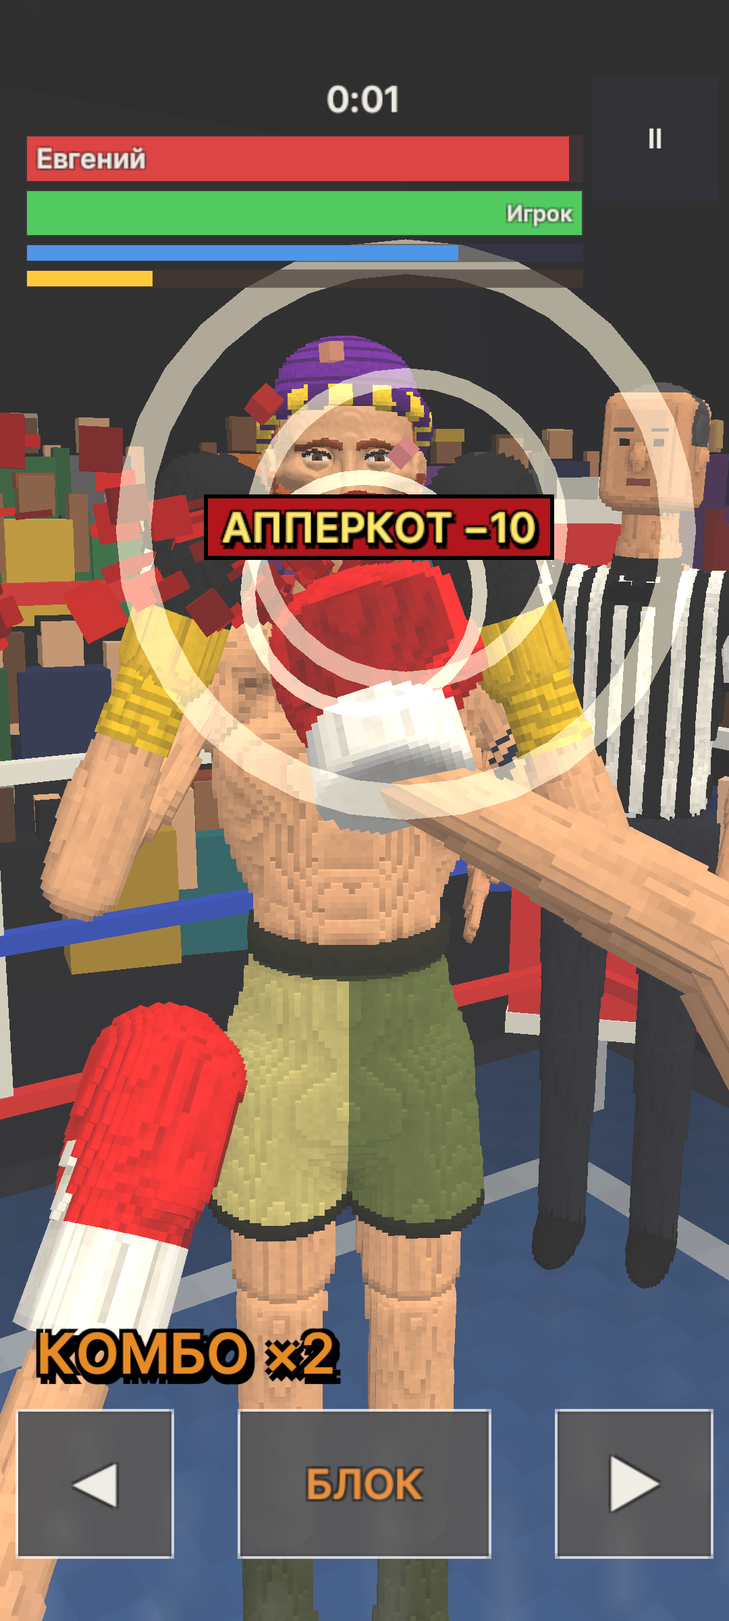
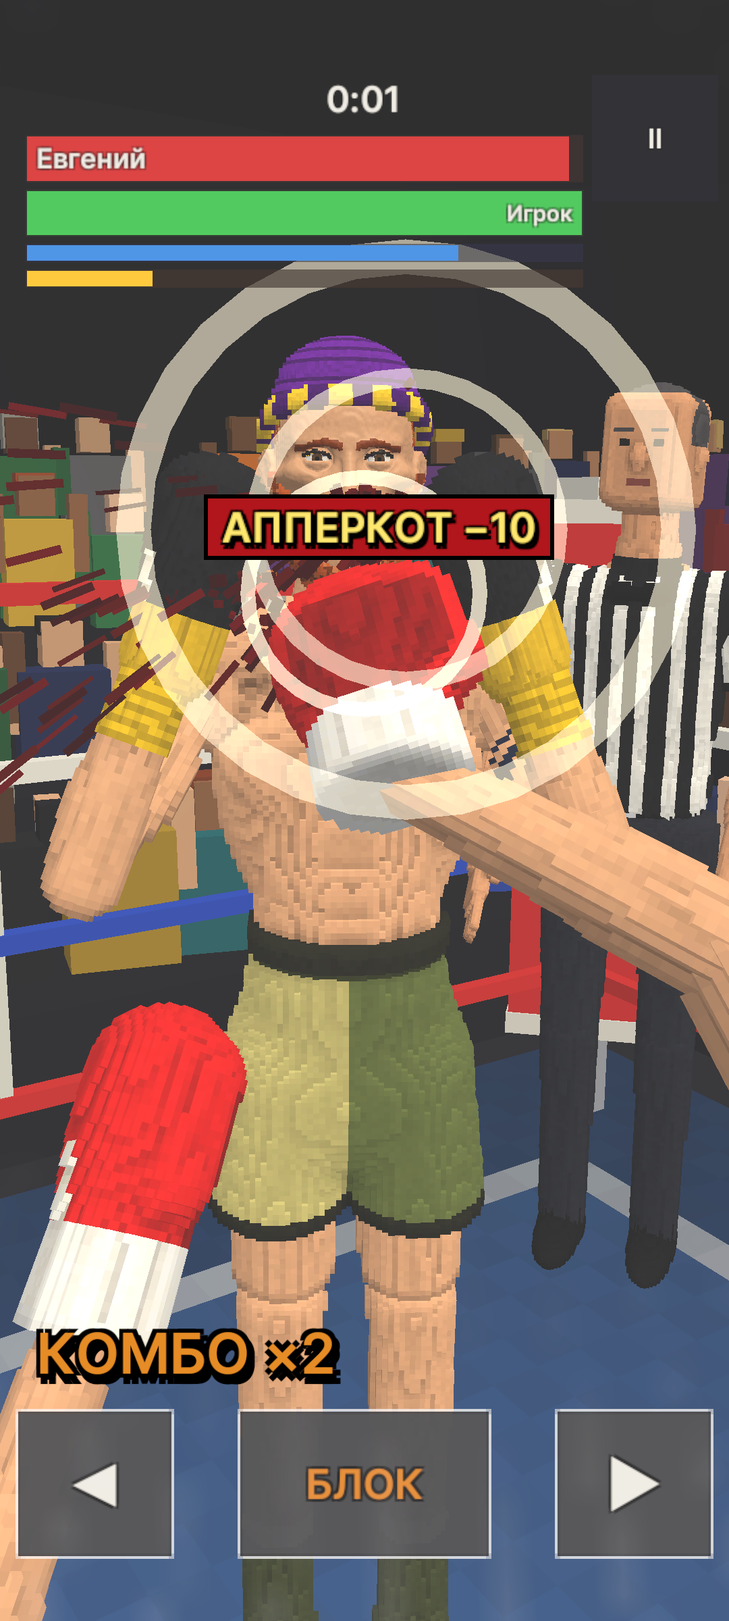
HIT-FX-2, доработка 3: кровь мелкими тёмно-бордовыми каплями и полосами; замер размера и цвета; снимки
Капли ×2,0 с ограничением экранной толщины (капля 1,25 %, штрих 0,6 % расстояния до камеры), штрихи длиннее,
кубики мяса мелкие и тёмные; джеб 56, силовой 130, мега 280 капель (пул 640 прежний); веер хука шире по
вертикали. WriteCube: ориентация и нормали раз на куб. Тест HitFx2_Criteria: размер, число, площадь, цвет.

diff --git a/Unity/Assets/Game/Runtime/Effects/FxParticles.cs b/Unity/Assets/Game/Runtime/Effects/FxParticles.cs
@@ -25,8 +25,9 @@ namespace VoxGame
         public const float SparkSize    = 0.011f;  // м, средний размер искры
         public const float SpawnLead    = 0.03f;   // м: рождение перед поверхностью, со стороны удара
         // Кровь (веб: капля 2,2–5,5 мм, морось 1,2–2,2 мм, штрих до ×5,5 длины и не длиннее 2,6 % расстояния до камеры)
-        public const float DropMin = 0.0022f, DropMax = 0.0055f, MistMin = 0.0012f, MistMax = 0.0022f;
-        public const float StreakMax = 4.5f, StreakScreen = 0.026f, StreakK = 0.011f;
+        public const float DropMin = 0.0022f, DropMax = 0.0055f, MistMin = 0.0015f, MistMax = 0.0035f;
+        public const float StreakMax = 6f, StreakScreen = 0.04f, StreakK = 0.016f;
+        public const float StreakThick = 0.006f;   // толщина штриха ≤ доли расстояния до камеры (≈1,15 % ширины кадра в портрете)
         public const float DropLifeMin = 1.6f, DropLifeMax = 2.4f, StainLife = 2.0f;
         public const float Near0 = 0.2f, Near1 = 0.6f;   // у объектива капля сжимается до нуля: не закрывает бой
 
@@ -44,7 +45,8 @@ namespace VoxGame
 
         static readonly Color32[] BloodCol =
         {
-            new Color32(178, 12, 12, 255), new Color32(150, 10, 10, 255), new Color32(205, 26, 20, 255), new Color32(120, 8, 9, 255),
+            // тёмно-бордовая (доработка 3): на красной перчатке и полосе здоровья кровь читается отдельно
+            new Color32(92, 6, 10, 255), new Color32(74, 4, 8, 255), new Color32(110, 10, 14, 255), new Color32(60, 3, 7, 255),
         };
 
         // Частицы
@@ -58,6 +60,8 @@ namespace VoxGame
         readonly float[]   _spinV = new float[MaxParticles];
         readonly FxKind[]  _kind = new FxKind[MaxParticles];
         readonly Color32[] _col = new Color32[MaxParticles];
+        readonly float[]   _dThick = new float[MaxParticles];     // замер: толщина нарисованного куба (м; 0 — не нарисован)
+        readonly bool[]    _dStreak = new bool[MaxParticles];     // замер: нарисован штрихом
         readonly uint[]    _seq = new uint[MaxParticles];         // порядковый номер рождения
         int  _next;
         uint _born;
@@ -146,7 +150,9 @@ namespace VoxGame
         public const float BloodSpeed = 1.25f;   // м/с: основная скорость при spd = 1, k = 1
         public const float ToCamMax = 0.9f;      // м/с: предел скорости к камере
         public const float UpMax = 2.2f;         // м/с: предел подъёма (апперкот)
-        public const float DropK = 2.4f, BigDrop = 1.8f;   // размер капли ×масштаб вида ×DropK; каждая шестая ×BigDrop
+        // размер капли ×масштаб вида: мелкие чаще (квадрат случайного), каждая восьмая ×BigDrop — разброс без крупных кубов
+        public const float DropK = 2.0f, BigDrop = 1.5f;
+        public const float ThickScreen = 0.0125f;   // толщина капли, мороси и кубика мяса ≤ доли расстояния до камеры (≈2,4 % ширины кадра в портрете)
 
         public void BloodBurst(Vector3 at, Vector3 dir, Vector3 toCam, int n, int kind, float spd, float k)
         {
@@ -169,7 +175,7 @@ namespace VoxGame
                 switch (kind)
                 {
                     case BurstHook:
-                        v = side * m + rx * R(-0.15f, 0.15f) + Vector3.up * R(-0.1f, 0.45f) * m + cf * R(-0.1f, 0.35f) * m;
+                        v = side * m + rx * R(-0.15f, 0.15f) + Vector3.up * R(-0.55f, 0.6f) * m + cf * R(-0.1f, 0.35f) * m;   // веер шире перчатки по вертикали
                         break;
                     case BurstUpper:
                         v = Vector3.up * (0.15f + m) + rx * R(-0.3f, 0.3f) * m + cf * R(-0.1f, 0.3f) * m;
@@ -189,9 +195,9 @@ namespace VoxGame
                 if (vc > ToCamMax) v -= c * (vc - ToCamMax);
                 if (v.y > UpMax) v.y = UpMax;
                 // размеры вразброс (доработка 2): каждая шестая капля крупная, морось тоже крупнее — всплеск читается на телефоне
-                float big = i % 6 == 0 ? BigDrop : 1f;
+                float big = i % 8 == 0 ? BigDrop : 1f, q = Rand01();
                 if (mist) Spawn(FxKind.Mist, from, v, R(MistMin, MistMax) * k * DropK, R(0.25f, 0.6f), col);
-                else Spawn(FxKind.Blood, from + RandSphere() * 0.01f, v, R(DropMin, DropMax) * k * DropK * big, R(DropLifeMin, DropLifeMax), col);
+                else Spawn(FxKind.Blood, from + RandSphere() * 0.01f, v, Mathf.Lerp(DropMin, DropMax, q * q) * k * DropK * big, R(DropLifeMin, DropLifeMax), col);
             }
         }
 
@@ -209,9 +215,9 @@ namespace VoxGame
             {
                 // подъём и полёт к камере ограничены, как у крови (HIT-FX-2): кубики не улетают за верхний край
                 Vector3 v = side * R(0.6f, 2f) + RandSphere() * 0.8f + Vector3.up * R(0.2f, 1f) + c * R(0f, 0.6f);
-                Color32 col = Rand01() < 0.6f ? new Color32((byte)R(140, 190), (byte)R(18, 40), (byte)R(20, 36), 255)
-                                              : new Color32((byte)R(200, 230), (byte)R(120, 150), (byte)R(110, 130), 255);
-                Spawn(FxKind.Chunk, at + c * SpawnLead + RandSphere() * 0.015f, v * spd * Mathf.Sqrt(k), R(0.006f, 0.011f) * k,
+                // мелкие и тёмные (доработка 3): крупные красные кубики читались как кровь-кубы
+                Color32 col = new Color32((byte)R(70, 115), (byte)R(6, 18), (byte)R(9, 20), 255);
+                Spawn(FxKind.Chunk, at + c * SpawnLead + RandSphere() * 0.015f, v * spd * Mathf.Sqrt(k), R(0.003f, 0.005f) * k,
                       R(1.4f, 2.2f), col);
             }
         }
@@ -375,6 +381,17 @@ namespace VoxGame
         // Показать или спрятать меш частиц (замер: площадь крови на снимке).
         public void SetDrawn(bool on) { if (_go != null) _go.SetActive(on); }
 
+        // Замер: нарисованные капли, морось и кубики мяса этого удара — положение, толщина (м), штрих ли.
+        public int CopyBloodDims(uint fromSeq, Vector3[] pos, float[] thick, bool[] streak)
+        {
+            int n = 0;
+            for (int i = 0; i < MaxParticles && n < pos.Length; i++)
+                if (_life[i] > 0f && _seq[i] >= fromSeq && _dThick[i] > 0f
+                    && (_kind[i] == FxKind.Blood || _kind[i] == FxKind.Mist || _kind[i] == FxKind.Chunk))
+                { pos[n] = _pos[i]; thick[n] = _dThick[i]; streak[n] = _dStreak[i]; n++; }
+            return n;
+        }
+
         public int CopyBlood(uint fromSeq, Vector3[] dst)
         {
             int n = 0;
@@ -424,9 +441,10 @@ namespace VoxGame
                 if (_hasCam)
                 {
                     cd = Vector3.Distance(_pos[i], _camPos);
-                    if (cd < Near1) { if (cd <= Near0) continue; s *= (cd - Near0) / (Near1 - Near0); }
+                    if (cd < Near1) { if (cd <= Near0) { _dThick[i] = 0f; continue; } s *= (cd - Near0) / (Near1 - Near0); }
                 }
-                if (s <= 1e-5f) continue;
+                if (s <= 1e-5f) { _dThick[i] = 0f; continue; }
+                if (kind == FxKind.Blood || kind == FxKind.Mist || kind == FxKind.Chunk) s = Mathf.Min(s, cd * ThickScreen);
 
                 Vector3 u, v, w;
                 float su = s, sv = s, sw = s;
@@ -441,7 +459,7 @@ namespace VoxGame
                     if (kind == FxKind.Blood)
                     {
                         float l = Mathf.Max(s, Mathf.Min(s * (1f + Mathf.Min(StreakMax, sp * StreakK / s)), cd * StreakScreen));
-                        sw = l; su = sv = s * Mathf.Sqrt(s / l);
+                        sw = l; su = sv = Mathf.Min(s * Mathf.Sqrt(s / l), cd * StreakThick);
                     }
                     else sw = s * (1f + Mathf.Min(sp * 1.6f, 2.2f));
                 }
@@ -456,6 +474,8 @@ namespace VoxGame
                     u = new Vector3(ca, sa, 0f); v = new Vector3(-sa * 0.8f, ca * 0.8f, 0.6f).normalized;
                     w = Vector3.Cross(u, v);
                 }
+                _dThick[i] = Mathf.Max(su, sv); _dStreak[i] = sw > Mathf.Max(su, sv) * 1.5f;
+                if (!_dStreak[i]) _dThick[i] = Mathf.Max(_dThick[i], sw);
                 WriteCube(j * VertsPer, w2l.MultiplyPoint3x4(_pos[i]), w2l.MultiplyVector(u * (su * 0.5f)),
                           w2l.MultiplyVector(v * (sv * 0.5f)), w2l.MultiplyVector(w * (sw * 0.5f)), _col[i]);
                 j++;
@@ -469,25 +489,27 @@ namespace VoxGame
         // Шесть граней по полуосям hu, hv, hw; обход по часовой снаружи (как у VoxModel).
         void WriteCube(int b, Vector3 c, Vector3 hu, Vector3 hv, Vector3 hw, Color32 col)
         {
-            Face(b,      c, hu,  hv,  hw, col);   // +u
-            Face(b + 4,  c, -hu, hw,  hv, col);   // -u
-            Face(b + 8,  c, hv,  hw,  hu, col);   // +v
-            Face(b + 12, c, -hv, hu,  hw, col);   // -v
-            Face(b + 16, c, hw,  hu,  hv, col);   // +w
-            Face(b + 20, c, -hw, hv,  hu, col);   // -w
+            // у всех шести граней ориентация обхода одна (смешанное произведение hu, hv, hw): проверка и нормали — раз на куб
+            bool sw = Vector3.Dot(Vector3.Cross(hv, hw), hu) > 0f;
+            Vector3 nu = hu.normalized, nv = hv.normalized, nw = hw.normalized;
+            Face(b,      c + hu, nu,  hv, hw, sw, col);   // +u
+            Face(b + 4,  c - hu, -nu, hw, hv, sw, col);   // -u
+            Face(b + 8,  c + hv, nv,  hw, hu, sw, col);   // +v
+            Face(b + 12, c - hv, -nv, hu, hw, sw, col);   // -v
+            Face(b + 16, c + hw, nw,  hu, hv, sw, col);   // +w
+            Face(b + 20, c - hw, -nw, hv, hu, sw, col);   // -w
         }
 
-        // Грань с нормалью вдоль n (полуось), стороны a, b.
-        void Face(int i, Vector3 c, Vector3 n, Vector3 a, Vector3 b, Color32 col)
+        // Грань с центром o, нормалью nn и сторонами a, b; лицевая сторона Unity: cross(v1−v0, v2−v0) = −4·cross(a, b)
+        // должен смотреть по нормали, иначе стороны меняются местами (sw).
+        void Face(int i, Vector3 o, Vector3 nn, Vector3 a, Vector3 b, bool sw, Color32 col)
         {
-            Vector3 o = c + n;
-            Vector3 nn = n.normalized;
-            // лицевая сторона Unity: cross(v1−v0, v2−v0) = −4·cross(a, b) должен смотреть по n
-            if (Vector3.Dot(Vector3.Cross(a, b), n) > 0f) { Vector3 t = a; a = b; b = t; }
-            _vb[i]     = new Vtx { p = o - a - b, n = nn, c = col };
-            _vb[i + 1] = new Vtx { p = o - a + b, n = nn, c = col };
-            _vb[i + 2] = new Vtx { p = o + a + b, n = nn, c = col };
-            _vb[i + 3] = new Vtx { p = o + a - b, n = nn, c = col };
+            if (sw) { Vector3 t = a; a = b; b = t; }
+            Vector3 p = a + b, m = a - b;
+            _vb[i]     = new Vtx { p = o - p, n = nn, c = col };
+            _vb[i + 1] = new Vtx { p = o - m, n = nn, c = col };
+            _vb[i + 2] = new Vtx { p = o + p, n = nn, c = col };
+            _vb[i + 3] = new Vtx { p = o + m, n = nn, c = col };
         }
 
         // ---- Случайные числа (свой генератор: порядок случайных чисел боя не трогается) ---------------

diff --git a/Unity/Assets/Game/Editor/HitFx2Shots.cs b/Unity/Assets/Game/Editor/HitFx2Shots.cs
@@ -25,6 +25,8 @@ namespace VoxGame.Editor
             public float in15Frac, in33Frac;                // то же через 0,15 и 0,33 с
             public int after05Alive; public float after05HighFrac, after05BehindFrac;   // через 0,5 с: выше точки на 0,25·H
             public bool plateSeen; public float hudBottom, plateGloveFrac, plateContrastMin, plateHudFrac, plateComboFrac;
+            public float sizeMax, sizeMed, streakMax; public int sizeN;   // доработка 3: толщина частиц на 0,15 с, доли ширины
+            public Color bloodCol, gloveCol; public float bloodLum, bloodGloveContrast;   // средние цвета пикселей (sRGB) и яркость, контраст
             public Vector2 hitN; public float bloodPx15, plateDist, ringOverText, plateGlovePx; public Rect glovePxN; public bool plateInSafe; public Rect plateN, safeN, gloveN0, gloveN1;
         }
 
@@ -98,7 +100,8 @@ namespace VoxGame.Editor
                     if (f == PeakAt)
                     {
                         res.peakVis = vis; res.peakIn = inside; res.in15Frac = vis > 0 ? (float)inside / vis : 0f;
-                        res.bloodPx15 = ParticlePx(cam, ui, w, h, fx);
+                        res.bloodPx15 = ParticlePx(cam, ui, w, h, fx, ref res);
+                        SizeStats(cam, fx, born, w, ref res);
                         if (dir != null) HF2Shot(cam, ui, w, h, tmpPeak);
                     }
                     // 0,27 с: перчатка ушла с лица, облако крови открыто (дополнительный снимок, портрет)
@@ -294,15 +297,56 @@ namespace VoxGame.Editor
         }
 
         // Пиксели кадра, которые закрывают частицы: снимок с частицами и без них, разница больше 0,06 по любому каналу.
-        static float ParticlePx(Camera cam, UIRoot ui, int w, int h, FxDirector fx)
+        // Заодно средний цвет пикселей частиц и пикселей перчаток игрока на том же кадре (перчатки — разница с кадром без них).
+        static float ParticlePx(Camera cam, UIRoot ui, int w, int h, FxDirector fx, ref HitFx2Res res)
         {
             HF2Begin(cam, ui, w, h);
             var on = HF2Render(cam, w, h);
             fx.Particles.SetDrawn(false);
             var off = HF2Render(cam, w, h);
             fx.Particles.SetDrawn(true);
+            var gs = new[] { cam.transform.Find("playerArms/playerGlove0"), cam.transform.Find("playerArms/playerGlove1") };
+            foreach (var gt in gs) if (gt != null) gt.gameObject.SetActive(false);
+            var ng = HF2Render(cam, w, h);
+            foreach (var gt in gs) if (gt != null) gt.gameObject.SetActive(true);
             ui.RestoreAfterShot();
+            Color sb = Color.clear, sg = Color.clear; int nb = 0, ngl = 0;
+            for (int i = 0; i < on.Length; i++)
+            {
+                bool part = Differs(on[i], off[i]);
+                if (part) { sb += on[i]; nb++; }
+                else if (Differs(on[i], ng[i])) { sg += on[i]; ngl++; }
+            }
+            res.bloodCol = nb > 0 ? sb / nb : Color.black; res.gloveCol = ngl > 0 ? sg / ngl : Color.black;
+            float lb = Lum(res.bloodCol.linear), lg = Lum(res.gloveCol.linear);
+            res.bloodLum = lb;
+            res.bloodGloveContrast = (Mathf.Max(lb, lg) + 0.05f) / (Mathf.Min(lb, lg) + 0.05f);
             return DiffFrac(on, off, w, h, new Rect(0f, 0f, 1f, 1f)) * w * h;
+        }
+
+        static bool Differs(Color p, Color q) => Mathf.Abs(p.r - q.r) > 0.06f || Mathf.Abs(p.g - q.g) > 0.06f || Mathf.Abs(p.b - q.b) > 0.06f;
+
+        // Экранная толщина частиц крови этого удара (наибольшая сторона куба, у штриха — поперёк движения), доли ширины кадра.
+        static void SizeStats(Camera cam, FxDirector fx, uint born, int w, ref HitFx2Res res)
+        {
+            int m = FxParticles.MaxParticles;
+            var pos = new Vector3[m]; var th = new float[m]; var st = new bool[m];
+            int n = fx.Particles.CopyBloodDims(born, pos, th, st);
+            var l = new List<float>(n);
+            float tv = 2f * Mathf.Tan(cam.fieldOfView * 0.5f * Mathf.Deg2Rad), asp = cam.aspect;
+            res.streakMax = 0f;
+            for (int i = 0; i < n; i++)
+            {
+                Vector3 v = cam.WorldToViewportPoint(pos[i]);
+                if (v.z <= 0.01f || v.x < 0f || v.x > 1f || v.y < 0f || v.y > 1f) continue;
+                float f = th[i] / (v.z * tv * asp);   // доля ширины
+                l.Add(f);
+                if (st[i]) res.streakMax = Mathf.Max(res.streakMax, f);
+            }
+            l.Sort();
+            res.sizeN = l.Count;
+            res.sizeMax = l.Count > 0 ? l[l.Count - 1] : 0f;
+            res.sizeMed = l.Count > 0 ? l[l.Count / 2] : 0f;
         }
 
         static Rect DiffBox(Color[] a, Color[] b, int w, int h)

diff --git a/Unity/Assets/Game/Tests/FxDirectorTests.cs b/Unity/Assets/Game/Tests/FxDirectorTests.cs
@@ -530,10 +530,21 @@ namespace VoxGame.Tests
                 Assert.LessOrEqual(r.plateGlovePx, 0.05f, w + ": плашка под перчаткой (по пикселям перчаток)");
                 Assert.LessOrEqual(r.plateDist, 0.22f, w + ": плашка дальше 0,22 меньшей стороны от точки удара");
                 Assert.AreEqual(0f, r.ringOverText, 1e-4f, w + ": кольцо поверх текста плашки");
-                // доработка 2: крови на 0,15 с больше; до неё (a8d7ad5) в портрете видимых 12 / 34 / 34, пикселей 93 / 5455 / 18766
-                if (!r.land && r.punch == PunchType.Jab)  { Assert.GreaterOrEqual(r.peakVis, 30, w); Assert.GreaterOrEqual(r.bloodPx15, 279f, w); }
-                if (!r.land && r.punch == PunchType.Hook) { Assert.GreaterOrEqual(r.peakVis, 85, w); Assert.GreaterOrEqual(r.bloodPx15, 16365f, w); }
-                if (!r.land && r.punch == PunchType.Upper) { Assert.GreaterOrEqual(r.peakVis, 34, w); Assert.GreaterOrEqual(r.bloodPx15, 18766f, w); }
+                // доработка 3: мелкие тёмные капли и полосы, много (портрет 1080×2400, 0,15 с)
+                if (!r.land)
+                {
+                    Assert.LessOrEqual(r.sizeMax, 0.025f, w + ": наибольшая частица");
+                    Assert.LessOrEqual(r.sizeMed, 0.012f, w + ": медианная частица");
+                    Assert.LessOrEqual(r.streakMax, 0.012f, w + ": толщина полосы");
+                    Assert.GreaterOrEqual(r.peakVis, r.punch == PunchType.Jab ? 50 : 120, w + ": видимых частиц");
+                    if (r.punch == PunchType.Jab) Assert.GreaterOrEqual(r.bloodPx15, 8000f, w + ": пикселей крови");
+                    if (r.punch == PunchType.Hook)
+                    {
+                        Assert.GreaterOrEqual(r.bloodPx15, 12000f, w + ": пикселей крови");
+                        Assert.LessOrEqual(r.bloodLum, 0.10f, w + ": яркость крови");
+                        Assert.GreaterOrEqual(r.bloodGloveContrast, 2.0f, w + ": контраст крови к перчатке");
+                    }
+                }
                 Assert.GreaterOrEqual(r.plateContrastMin, 4.5f, w + ": контраст плашки");
                 Assert.IsTrue(r.plateInSafe, w + ": плашка в safe-area");
                 Assert.AreEqual(0f, r.plateHudFrac, 1e-4f, w + ": плашка на полосах HUD");

diff --git a/Unity/Assets/Game/Runtime/Effects/FxDirector.cs b/Unity/Assets/Game/Runtime/Effects/FxDirector.cs
@@ -69,7 +69,7 @@ namespace VoxGame
         public const float WebFaceDist = 0.7f;      // м: лицо соперника от камеры веба; масштаб вида = расстояние / это
         public const float ViewKMin = 1f, ViewKMax = 2.5f;
         public const float WhiteFlash = 0.15f;      // ×FlashMax 0,7 ≈ 0,1: в линейном цвете Unity это та же яркость, что 0,36 #white веба
-        public const int BloodJab = 36, BloodPower = 84, BloodPowerPerPw = 10, BloodMega = 180, BloodFracture = 30;
+        public const int BloodJab = 56, BloodPower = 130, BloodPowerPerPw = 10, BloodMega = 280, BloodFracture = 30;
         public const int BloodHeadBurst = 100, BloodCounter = 8, ChunksPower = 3, ChunksMega = 10, ChunksFracture = 6;
         public const int FireMega = 40, SweatJab = 4;
         public const float SpdJab = 0.9f, SpdPower = 1.2f, SpdMega = 1.5f;

diff --git a/Unity/HIT-FX-2.md b/Unity/HIT-FX-2.md
@@ -151,3 +151,55 @@
 - У джеба в портрете 2,2 % площади плашки лежат на краю перчатки: маска разрешает до 4 % перекрытия, потому что она шире силуэта.
 - В кадре `*-peak` у хука кровь частично закрыта перчаткой: облако физически за ней. Видно на `hook-peak-land.png`.
 - На телефоне не проверено.
+
+## Доработка 3 (26.11.2026)
+
+Замечание Руслана: кровь на хуке — несколько крупных красных кубов, сливается с перчаткой. База «до» — коммит `1c721e1`. Портрет 1080×2400, кадр `*-peak` (0,15 с).
+
+### Что изменено
+
+- **Форма** (`FxParticles`). Капля — 2,2–5,5 мм × масштаб вида × 2,0; мелкие чаще (квадрат случайного), каждая восьмая ×1,5. Раньше было ×2,4 и каждая шестая ×1,8. Морось — 1,5–3,5 мм. Толщина капли, мороси и кубика мяса — не больше 1,25 % расстояния до камеры (`ThickScreen`), толщина штриха — не больше 0,6 % (`StreakThick`). Штрихи длиннее: до ×6 и до 4 % расстояния. Заметность набрана количеством и длиной штрихов. Кубики мяса — 3–5 мм вместо 6–11, тёмные. У хука веер шире по вертикали (подъём −0,55…0,6 вместо −0,1…0,45): облако выходит из-за перчатки выше и ниже, направление вбок по удару сохранено.
+- **Цвет.** Кровь тёмно-бордовая: (92,6,10), (74,4,8), (110,10,14), (60,3,7) — было (178,12,12)…(205,26,20). Кубики мяса — R 70–115, G 6–18, B 9–20; розовые убраны.
+- **Количество** (`FxDirector`). Джеб — 56, хук и апперкот — 130, мега — 280 (было 36 / 84 / 180). У меги должно быть больше крови, чем у двух апперкотов (тест `Impact_ScalesWithPower`). Пул (640) и пределы не трогал.
+- **Время.** `WriteCube` проверяет ориентацию обхода и нормирует оси один раз на кубик, а не на каждую грань: у всех шести граней одно смешанное произведение, вид не меняется.
+- **Замер** (`HitFx2Shots`). Экранная толщина частиц (`CopyBloodDims`: длинная сторона кубика, у штриха — поперёк движения). Средний цвет пикселей крови и пикселей перчатки игрока на том же кадре. Тест `HitFx2_Criteria` проверяет новые пороги.
+
+### До / после (портрет, 0,15 с)
+
+| | джеб до | джеб после | хук до | хук после | апперкот до | апперкот после |
+|---|---|---|---|---|---|---|
+| **наибольшая частица, px (доля ширины)** | 49,3 | **18,4** (1,7 %) | 71,5 (6,6 %) | **20,1** (1,9 %) | 65,9 | **20,2** |
+| **медианная, px** | 14,8 | **11,2** | 16,2 | **11,8** (1,09 %) | 18,9 | **11,7** |
+| **толщина полосы, наибольшая, px** | 32,4 | **11,5** | 34,0 | **12,0** (1,11 %) | 33,4 | **12,0** |
+| **видимых частиц** | 36 | **56** | 88 | **134** | 88 | **134** |
+| **пикселей крови** | 16 328 | **14 938** | 18 767 | **19 560** | 57 610 | 46 159 |
+| в круге 0,2·W на 0,15 с | 0,83 | 0,79 | 0,91 | 0,93 | 1,00 | 1,00 |
+| через 0,5 с выше точки или за камерой | 0 | 0 | 0 | 0 | 0 | 0 |
+| средний цвет крови на снимке (sRGB) | (159,16,14) | (91,17,19) | (170,72,67) | **(112,66,63)** | (175,69,64) | (105,60,58) |
+| **относительная яркость крови** | 0,078 | 0,027 | 0,136 | **0,078** | 0,139 | 0,067 |
+| средний цвет перчатки игрока (sRGB) | (226,117,111) | (226,117,110) | (215,113,108) | (214,112,107) | (221,120,116) | (221,120,115) |
+| **контраст крови к перчатке** | 2,75 | 4,55 | 1,75 | **2,52** | 1,87 | 3,02 |
+
+Цвет на снимке светлее цвета частицы: на него влияют освещение сцены, самосвечение материала частиц 0,55 и сглаживание краёв тонких штрихов, которые смешиваются с кожей. Средний цвет перчатки (214,112,107) — это красная кожа перчатки вместе с белой манжетой. Ландшафт для сведения: хук — яркость 0,140, контраст 1,92. Там штрихи по 3–6 px, и почти все пиксели крови смешаны с фоном. Критерий цвета задан для портрета; в ландшафте он не выполняется.
+
+### Плашка — без изменений
+
+Расстояние: портрет 0,165 / 0,219 / 0,093, ландшафт 0,216 / 0,181 / 0,104. Перекрытие перчатками: 0,022 / 0 / 0, 0 / 0 / 0,001. Кольцо на тексте — 0. Контраст — 18,59 / 5,77 / 5,77. Совпадает с `1c721e1`.
+
+### Тесты, seed 77, время
+
+- `VoxGame.Tests` — 232 / 0. `VoxProbe.Tests.Anatomy` — 65 / 0: в первом прогоне снова упал плавающий `StumpMuscleLayersRender`, во втором прошёл.
+- Seed 77: 78 ударов, 147 880 / 149 586 / 157 850 / 156 238 / 51 928, куски 75 212 — совпало.
+- `HitFxBench(40)`: эффекты в кадре удара — **0,835 / 1,125 мс** (медиана / p90); тик после удара — 0,52 / 0,79. Пик частиц — **559 из 640**. Без ускорения `WriteCube` было 0,99–1,00 / 1,30–1,34.
+
+### Снимки
+
+Весь набор `Shots/hit-fx-2/` переснят и просмотрен. Новый крупный план `hook-peak-zoom.png` — 540×540 вокруг точки удара в исходном разрешении (вырезан из `hook-peak.png`). Прежний вид — `v2-hook-peak.png`, `v2-jab-peak.png`.
+
+### Что не получилось или на грани
+
+- У хука в портрете медиана 11,8 px и толщина полосы 12,0 px при пороге 13 px. Площадь 19 560 px получена за счёт длины штрихов и веера шире перчатки. Без этого видимую часть облака закрывает перчатка: при той же форме облака площадь упиралась в ~11 300 px, сколько ни увеличивай капли.
+- Средний цвет крови на снимке хука (112,66,63) заметно светлее цвета частицы (92,6,10). Тонкие штрихи по краям смешиваются с кожей, свет и самосвечение 0,55 тоже осветляют. Яркость 0,078 и контраст 2,52 в норме, но если нужен ещё темнее — следующий шаг: убрать самосвечение у крови (сейчас оно общее для всех частиц).
+- В ландшафте кровь мелкая (3–6 px) и по цвету почти сливается с фоном: контраст к перчатке у хука 1,92.
+- Самые длинные штрихи хука — лучи, расходящиеся от точки удара. По форме это полосы, а не кубы. Круглых капель на кадре 0,15 с у хука мало: медленные капли ещё у самой точки, за перчаткой.
+- На телефоне не проверено.
